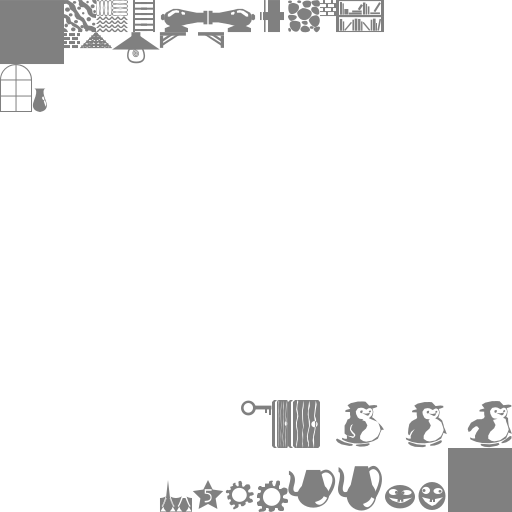
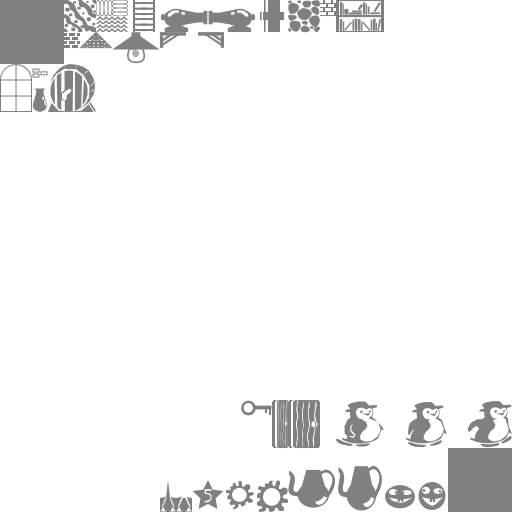
new cellar room

Changed region(s): [[0.0625, 0.125, 0.1875, 0.2188]]

diff --git a/src/rooms.js b/src/rooms.js
@@ -20,5 +20,5 @@ var ROOMS = {
     entryway: [[0,0,0,0,0,0,5,4,5,0,0,0,0,0,0,0,0,0,0,0,0,5,4,5,0,0,0,0,0,0,0,0,0,0,0,0,21,0],[0,0,0,0,0,5,5,4,5,0,0,0,0,0,0,0,0,0,0,0,0,5,4,5,0,0,0,0,0,0,0,0,0,0,0,0,0,0],[0,0,0,0,0,0,5,4,5,0,0,0,0,0,0,0,0,0,0,0,0,5,4,5,0,0,0,0,0,0,0,0,0,0,0,0,21,0],[0,0,0,0,0,5,5,4,5,0,0,0,0,0,0,0,0,30,0,0,0,5,4,5,0,0,0,0,0,0,0,0,0,0,0,0,0,0],[0,0,0,0,0,0,5,4,5,0,0,0,0,0,0,0,0,0,0,0,0,5,4,5,0,0,0,0,0,0,0,0,0,0,0,0,21,0],[0,0,0,0,0,5,5,4,5,0,0,0,0,0,0,0,0,30,0,0,0,5,4,5,0,0,0,0,0,0,0,0,0,0,52,51,0,0],[0,0,0,0,0,0,5,4,5,0,0,0,0,0,0,0,0,0,0,0,0,5,4,5,0,0,0,0,0,0,0,0,0,0,0,0,3,0],[0,0,0,0,0,5,5,4,5,0,0,0,0,0,0,0,0,30,0,0,0,5,4,5,0,0,0,0,0,0,0,0,0,0,0,0,0,0],[0,0,0,0,0,0,5,4,5,0,0,0,0,0,0,0,0,0,0,0,0,5,4,5,0,0,0,0,0,0,0,0,0,0,0,0,21,0],[0,0,0,0,0,5,5,4,5,0,0,0,0,30,0,0,0,30,0,0,0,5,4,5,0,0,0,0,0,0,0,0,0,0,0,0,0,0],[0,0,0,0,0,0,5,4,5,0,0,0,0,0,0,0,0,0,0,0,0,5,4,5,0,0,0,0,0,0,0,0,0,0,0,0,21,0],[0,0,0,0,0,5,5,4,5,0,0,0,0,30,0,0,0,0,0,0,0,5,4,5,0,0,0,0,0,0,0,0,0,0,0,0,0,0],[0,0,5,0,0,0,5,4,5,0,0,0,0,0,0,0,0,0,0,0,0,22,22,22,0,0,0,0,0,0,0,0,0,0,21,0,3,0],[0,0,5,5,5,5,5,4,5,0,0,0,0,30,0,0,0,0,0,0,0,22,22,22,0,0,0,0,0,0,0,0,0,0,0,0,0,0],[0,0,5,5,5,5,5,4,5,0,0,0,0,0,0,0,0,0,0,0,0,22,22,22,0,0,0,0,0,0,0,0,21,0,3,0,3,0],[0,0,5,0,0,0,5,4,5,0,0,0,0,30,0,0,0,0,0,0,0,22,22,22,0,0,0,0,0,0,0,0,0,0,0,0,0,0],[0,0,0,0,0,5,5,4,5,0,0,0,0,0,0,0,0,0,0,0,0,22,22,22,0,0,0,0,0,0,0,0,21,0,3,0,3,0],[0,0,0,0,0,0,5,4,5,0,0,0,0,30,0,0,0,0,0,0,0,22,22,22,0,0,0,0,0,0,0,0,0,0,0,0,0,0],[0,0,0,0,0,5,5,4,5,0,0,0,0,0,0,0,0,0,0,0,9,0,9,0,9,0,9,0,9,0,0,0,21,0,3,0,21,0],[0,0,0,0,0,0,5,4,5,0,0,0,0,30,0,0,0,0,0,0,0,0,0,0,0,0,0,0,0,0,0,0,0,0,0,0,0,0],[0,0,0,0,0,5,5,4,5,0,0,0,0,0,0,0,0,0,0,0,0,22,22,22,0,0,0,0,0,0,0,0,21,0,21,0,21,0],[0,0,0,0,0,0,5,4,5,0,0,0,0,0,0,0,0,0,0,0,0,22,22,22,0,0,0,0,0,0,0,0,0,0,0,0,0,0],[0,0,0,0,0,5,5,4,5,5,5,5,5,5,5,5,5,5,5,5,5,5,4,5,5,5,5,0,0,0,0,0,0,0,0,0,21,0],[0,0,0,0,0,0,5,4,4,4,4,4,4,4,4,4,4,4,4,4,4,4,4,5,5,5,5,0,0,0,0,0,0,0,13,0,0,0],[0,0,0,0,0,5,5,4,5,5,5,5,5,5,5,5,5,5,5,5,5,5,5,5,5,5,5,0,0,0,0,0,0,0,0,0,21,0],[0,0,0,0,0,0,5,4,5,0,0,0,0,26,0,0,0,0,0,0,0,26,0,0,0,5,5,0,0,0,0,0,0,0,0,0,0,0],[0,0,0,0,0,5,5,4,5,0,0,0,0,26,0,0,0,0,0,0,0,26,0,0,0,19,0,0,0,0,0,0,0,0,0,0,3,0],[0,0,0,0,0,0,5,4,5,0,0,0,0,26,0,0,0,0,0,0,0,26,0,0,0,0,0,0,0,0,0,0,0,0,0,0,0,0],[0,0,0,0,0,5,5,4,5,0,0,0,0,26,0,0,0,0,0,0,0,26,0,0,0,19,0,0,0,0,0,0,0,0,0,0,3,0],[0,0,0,0,0,0,5,4,5,0,0,0,0,26,0,0,0,0,0,0,0,26,0,0,0,0,0,0,0,0,0,0,0,0,0,0,0,0],[0,0,0,0,0,5,5,4,5,0,0,0,0,26,0,0,0,0,0,0,0,26,0,0,0,19,0,0,0,0,0,0,0,0,0,0,21,0],[0,0,0,0,0,0,5,4,5,0,0,0,0,26,0,0,0,0,0,0,0,26,0,0,0,0,0,0,0,0,0,0,0,0,51,52,0,0],[0,0,5,5,5,5,5,4,5,0,0,0,0,0,0,0,0,0,0,0,0,0,0,0,0,19,0,0,0,0,0,0,0,0,0,0,21,0],[0,5,5,5,5,5,5,4,5,0,0,0,0,0,0,0,0,0,0,0,0,0,0,0,0,0,0,0,0,0,0,0,0,0,0,0,0,0],[0,5,5,5,5,5,5,4,5,0,0,0,0,0,0,0,0,26,0,0,0,0,0,0,0,19,0,0,0,0,0,0,0,0,0,0,21,0],[0,0,5,5,5,5,5,4,5,0,0,0,0,0,0,0,0,26,0,0,0,0,0,0,0,0,0,0,0,0,0,0,0,0,0,0,0,0],[0,0,0,0,0,0,5,4,5,0,0,0,0,0,0,13,0,26,0,0,0,0,0,0,0,19,0,0,0,0,0,0,0,0,0,0,3,0],[0,0,0,0,0,5,5,4,5,0,0,0,0,0,0,0,0,26,0,0,0,0,0,0,0,0,0,0,0,0,0,0,0,0,0,0,0,0],[0,0,0,0,0,0,5,4,5,17,0,0,0,0,0,0,0,26,0,0,0,0,0,0,0,19,0,19,0,19,0,19,0,0,0,0,3,0],[0,0,0,0,0,5,5,4,5,0,0,0,0,0,0,0,0,26,0,0,0,0,0,0,0,0,0,0,0,0,0,0,0,0,0,0,0,0],[0,0,0,0,0,0,5,4,5,0,0,0,0,0,0,0,0,26,0,0,0,0,0,0,0,0,0,0,0,0,0,19,0,0,0,0,3,0],[0,0,0,0,0,5,5,4,5,0,0,0,0,0,0,0,0,9,0,9,0,9,0,9,0,9,0,9,0,0,0,0,0,41,0,0,0,0],[0,0,0,0,0,0,5,4,5,0,0,0,0,0,0,0,0,0,0,0,0,0,0,0,0,0,0,0,0,0,0,19,0,0,0,0,21,0],[0,0,0,0,0,5,5,4,5,0,0,0,0,0,0,0,0,26,0,0,0,0,0,0,0,0,0,0,0,0,0,0,0,0,0,0,0,0],[0,0,0,0,0,0,5,4,5,0,0,0,0,0,0,0,0,26,0,0,0,0,0,0,0,0,0,0,0,0,0,19,0,0,0,0,3,0],[0,0,0,0,0,5,5,4,5,0,0,0,0,26,0,0,26,26,0,0,0,0,0,0,0,0,0,0,0,0,0,0,0,0,0,0,0,0],[0,0,0,0,0,0,5,4,5,0,0,0,0,26,0,0,0,26,0,0,0,0,0,0,0,0,0,0,0,0,0,19,0,0,0,0,21,0],[0,0,0,0,0,5,5,4,5,0,0,0,0,26,0,0,0,26,0,0,0,0,0,0,0,0,0,0,0,0,0,0,0,0,0,0,0,0],[0,0,0,0,0,0,5,4,5,0,0,0,0,26,0,0,0,26,0,0,0,0,0,0,0,0,0,0,0,0,0,19,0,0,0,0,21,0],[0,0,0,0,0,0,5,4,5,0,0,0,0,26,0,0,0,26,0,0,0,0,0,0,0,0,0,0,0,0,0,0,0,0,0,0,0,0]],
     drawing_room: [[0,0,0,0,0,0,5,4,5,0,0,0,0,26,0,0,0,26,0,0,0,0,0,0,0,0,0,0,0,0,0,19,0,0,0,0,21,0],[0,0,0,0,0,5,5,4,5,0,0,0,0,26,0,0,0,26,0,0,0,0,0,0,0,0,0,0,0,0,0,0,0,0,0,0,0,0],[0,0,0,0,0,0,5,4,5,0,0,0,0,26,0,0,0,26,0,0,0,0,0,0,0,0,0,0,0,0,0,19,0,0,0,0,21,0],[0,0,0,0,0,5,5,4,5,0,0,0,23,26,0,0,0,26,0,0,0,0,0,0,0,0,0,0,0,0,0,0,0,0,0,0,0,0],[0,0,0,0,0,0,5,4,5,0,0,0,0,26,0,0,0,26,0,0,0,9,0,9,0,9,0,9,0,0,0,19,0,0,0,0,21,0],[0,0,0,0,0,5,5,4,5,0,0,0,0,26,0,0,0,26,0,0,0,0,0,0,0,0,0,0,0,0,0,0,0,0,0,0,0,0],[0,0,0,0,0,0,5,4,5,0,0,0,0,26,0,0,0,26,0,0,0,8,0,0,0,0,0,0,0,0,0,19,0,0,0,0,21,0],[0,0,0,0,0,5,5,4,5,0,0,0,0,26,0,0,0,26,0,0,0,8,0,0,0,0,0,0,0,0,0,0,0,0,0,0,0,0],[0,0,0,0,0,0,5,4,5,0,0,0,0,9,0,9,0,9,0,0,0,8,0,0,0,0,0,0,0,19,0,19,0,0,0,0,21,0],[0,0,0,0,5,5,5,4,5,0,0,0,0,0,0,0,0,0,0,0,0,8,0,0,0,0,0,0,0,0,0,0,0,0,0,0,0,0],[0,0,0,5,5,5,5,4,5,0,0,0,0,26,0,0,0,26,0,0,0,8,0,0,0,0,0,19,0,19,0,0,0,0,0,0,21,0],[0,0,0,0,5,5,5,4,5,0,0,0,0,26,0,0,0,26,0,0,0,8,0,0,0,0,0,0,0,0,0,0,0,0,0,0,0,0],[0,0,0,5,5,5,5,4,5,0,0,13,0,26,0,0,0,26,0,0,0,0,0,0,0,19,0,19,0,0,0,0,0,0,0,0,21,0],[0,0,0,0,5,5,5,4,5,0,0,0,0,26,0,0,0,0,0,0,0,0,0,0,0,0,0,0,0,0,0,0,0,0,0,0,0,0],[0,0,0,0,0,0,5,4,5,0,0,0,0,26,0,0,0,0,0,0,0,0,0,19,0,19,0,0,0,0,0,0,0,0,0,0,21,0],[0,0,0,0,0,5,5,4,5,0,0,0,0,26,0,0,0,0,0,0,0,0,0,0,0,0,0,0,0,0,0,0,0,0,0,0,0,0],[0,0,0,0,0,0,5,4,5,0,0,0,0,26,0,0,0,0,0,0,0,19,0,19,0,0,0,0,0,0,0,0,0,0,0,0,21,0],[0,0,0,0,0,5,5,4,5,0,0,0,0,26,0,0,0,0,0,0,0,0,0,0,0,0,0,0,0,0,0,0,0,0,0,0,0,0],[0,0,0,0,0,0,5,4,5,0,0,0,0,26,0,0,0,0,0,19,0,19,0,0,0,0,0,0,0,0,0,0,0,0,21,0,21,0],[0,0,0,0,0,5,5,4,5,0,0,0,0,47,0,0,0,0,0,0,0,0,0,0,0,0,0,0,0,0,0,0,0,0,0,0,0,0],[0,0,0,0,0,0,5,4,5,0,0,0,0,0,0,0,0,19,0,19,0,0,0,0,0,0,0,0,0,0,0,0,21,0,21,0,21,0],[0,0,0,0,0,5,5,4,5,0,0,0,0,0,0,0,0,0,0,0,0,0,0,0,0,0,0,0,0,0,0,0,0,0,0,0,0,0],[0,0,0,0,0,0,5,4,5,0,0,0,0,0,0,19,0,19,0,0,0,0,0,0,0,0,0,0,0,0,21,0,21,0,21,0,21,0],[0,0,0,0,0,0,5,4,5,0,0,0,0,0,0,0,0,0,0,0,0,0,0,0,0,0,0,0,0,0,0,0,0,0,0,0,0,0],[0,0,0,0,0,15,5,4,5,0,0,0,0,19,0,19,0,0,0,0,0,0,0,0,0,0,0,0,21,0,21,0,21,0,0,0,21,0],[0,0,0,0,15,5,5,4,5,0,0,0,0,0,0,0,0,0,0,0,0,0,0,0,0,0,0,0,0,0,0,0,0,0,0,0,0,0],[0,0,0,15,5,4,4,4,5,0,0,0,0,19,0,0,0,0,0,0,0,0,0,0,0,0,21,0,21,0,21,0,0,0,0,0,21,0],[0,0,15,5,4,5,5,5,5,0,0,0,0,0,0,0,0,0,0,0,0,0,0,0,0,0,0,0,0,0,0,0,0,0,0,0,0,0],[0,15,5,4,5,0,0,0,0,0,0,0,0,28,0,0,0,0,0,0,0,0,0,0,21,0,21,0,21,0,0,0,0,0,0,0,21,0],[15,5,4,5,0,0,0,0,0,0,0,0,0,0,0,0,0,0,0,0,0,0,0,0,0,0,0,0,0,0,0,0,0,0,0,0,0,0],[5,4,5,0,0,0,0,0,0,0,0,0,0,28,0,0,0,0,0,0,0,0,21,0,21,0,21,0,0,0,0,0,0,0,9,0,9,0],[4,5,5,0,0,0,0,0,0,48,0,0,0,0,0,0,0,0,0,0,0,0,0,0,0,0,0,0,0,0,0,0,0,0,0,0,0,0],[4,5,0,0,0,0,0,0,0,0,0,0,0,28,0,0,0,0,0,0,21,0,21,0,21,0,0,0,0,53,0,0,0,0,0,0,0,0],[4,5,0,0,0,0,0,0,0,8,0,0,0,0,0,0,0,0,0,0,0,0,0,0,0,0,0,0,0,0,0,0,0,0,0,0,0,0],[4,5,0,0,0,0,0,0,0,8,0,0,0,28,0,0,0,0,21,0,21,0,21,0,0,0,0,0,0,0,0,0,0,0,0,0,0,0],[4,5,0,0,0,0,0,0,0,8,0,0,0,0,0,0,0,0,0,0,0,0,0,0,0,14,0,0,0,0,0,0,0,0,0,0,0,0],[4,5,0,0,0,0,0,0,0,8,0,0,0,28,0,0,0,0,21,0,21,0,0,0,0,0,0,0,0,0,0,0,0,0,0,0,21,0],[4,5,0,0,0,0,0,0,0,8,0,0,0,0,0,0,0,0,0,0,0,0,0,0,0,0,0,0,0,0,0,0,0,0,0,0,0,0],[4,5,0,0,0,0,0,0,0,9,0,9,0,9,0,0,0,0,21,0,21,0,0,0,0,0,0,0,0,0,0,0,0,0,0,0,21,0],[4,5,0,0,0,0,0,0,0,0,0,0,0,0,0,0,0,0,0,0,0,0,49,0,0,0,0,48,0,0,0,48,0,0,0,0,0,0],[4,5,0,0,0,0,0,0,0,8,0,0,0,0,0,0,0,0,21,0,21,0,0,0,0,0,0,0,0,0,0,0,0,0,0,0,21,0],[4,5,0,0,0,0,0,0,0,8,0,0,0,0,0,0,0,0,0,0,0,0,4,4,4,4,4,4,4,4,4,4,4,0,0,0,0,0],[4,5,0,0,0,0,0,0,0,8,0,0,0,0,0,0,0,0,21,0,21,0,4,4,4,4,4,4,4,4,4,4,4,43,0,0,21,0],[4,5,0,0,0,0,0,13,0,8,0,0,0,0,0,0,0,0,0,0,0,0,4,4,4,4,4,4,4,4,4,4,4,0,0,0,0,0],[4,5,0,0,0,0,0,0,0,8,0,0,0,0,0,0,0,0,21,0,21,0,4,4,4,4,4,4,4,4,4,4,4,0,0,0,21,0],[4,5,0,0,0,0,0,0,24,8,0,0,0,0,0,0,0,0,0,0,0,0,0,0,0,0,0,0,0,0,0,0,0,0,0,0,0,0],[4,5,0,0,0,0,0,0,0,8,0,0,0,0,0,0,0,0,21,0,21,0,0,0,0,0,0,0,0,0,0,0,0,0,0,0,21,0],[4,5,0,0,0,0,0,0,0,8,0,0,0,0,0,0,0,0,0,0,0,0,0,0,0,0,0,0,0,0,0,0,0,0,0,0,0,0],[4,5,0,0,0,0,0,0,0,8,0,0,0,0,0,0,0,0,21,0,21,0,0,0,0,0,0,0,0,0,0,0,0,0,0,0,21,0],[4,5,0,0,0,0,0,0,0,8,0,0,0,0,0,0,0,0,0,0,0,0,0,0,0,0,0,0,0,0,0,0,0,0,0,0,0,0]],
     kitchen:  [[4,5,0,0,0,0,0,0,0,30,0,0,0,0,0,0,0,0,21,0,3,0,0,0,0,0,0,0,0,0,0,0,0,0,0,0,3,0],[4,5,0,0,0,0,0,0,0,0,0,0,0,0,0,0,0,0,0,0,0,0,0,0,0,0,0,0,0,0,0,0,0,0,0,0,0,0],[4,5,0,0,0,0,0,0,0,30,0,0,0,0,0,0,0,0,21,0,3,0,0,0,0,53,0,0,0,0,0,0,0,0,0,0,21,0],[4,5,0,0,0,0,0,0,0,0,0,0,0,0,0,0,0,0,0,0,0,0,0,0,0,0,0,0,0,0,0,0,0,0,0,0,0,0],[4,5,0,0,0,0,0,0,0,9,0,9,0,9,0,0,0,0,21,0,3,0,0,0,0,0,0,0,0,0,0,0,0,0,0,0,21,0],[4,5,17,0,0,0,0,0,0,0,0,0,0,0,0,0,0,0,0,0,0,0,0,0,0,0,0,0,0,0,0,0,0,0,0,0,0,0],[4,5,0,0,0,0,0,0,0,0,0,0,0,0,0,0,0,0,21,0,3,0,0,0,0,0,0,0,0,0,0,0,0,0,0,0,21,0],[4,5,0,0,0,0,0,0,0,30,0,0,0,0,0,0,0,0,0,0,0,0,0,0,0,0,0,0,0,0,0,0,0,0,0,0,0,0],[4,5,0,0,0,0,0,0,0,0,0,0,0,0,0,0,0,0,21,0,3,0,0,0,0,0,0,0,0,0,0,0,0,0,0,0,21,0],[4,5,0,0,0,0,0,0,0,30,0,0,0,0,0,0,0,0,0,0,0,0,0,0,0,53,0,0,0,0,0,0,0,0,0,0,0,0],[4,5,0,0,0,0,0,0,0,0,0,0,0,0,0,0,0,0,21,0,3,0,0,0,0,0,0,0,0,0,0,0,0,0,0,0,21,0],[4,5,0,0,0,0,0,0,0,27,0,0,0,0,0,0,0,0,0,0,0,0,0,0,0,0,0,0,0,0,0,0,0,0,0,0,0,0],[4,5,0,0,0,0,0,0,0,27,0,0,0,0,0,0,0,0,21,0,3,0,0,0,0,0,0,0,0,0,0,0,0,0,0,24,21,0],[4,5,0,0,0,0,0,0,0,30,0,0,0,0,0,0,0,0,0,0,0,0,0,0,0,0,0,0,0,0,0,0,0,0,0,50,0,0],[4,5,0,0,0,0,0,0,0,0,0,0,0,0,0,0,0,0,0,0,21,0,3,0,0,0,0,0,0,0,0,0,0,0,0,24,21,0],[4,5,0,0,0,0,0,0,0,30,0,0,0,0,0,0,0,0,0,0,0,0,0,0,0,0,0,0,0,0,0,0,0,0,0,0,0,0],[4,5,0,0,0,0,0,0,0,0,0,0,0,0,0,0,0,0,0,0,0,0,3,0,21,0,0,0,0,0,0,0,0,0,0,0,3,0],[4,5,0,0,0,0,0,0,0,30,0,0,0,0,0,0,0,0,0,0,0,0,0,0,0,0,0,0,0,0,0,0,0,0,0,0,0,0],[4,5,0,0,0,0,0,0,0,0,0,0,0,0,0,0,0,0,0,0,0,0,0,0,0,30,0,0,0,0,0,0,0,0,0,0,3,0],[4,5,0,0,0,0,0,0,0,0,0,0,0,30,0,0,0,0,0,0,0,0,0,0,0,0,0,0,0,0,0,0,0,0,0,0,0,0],[4,5,0,0,0,0,0,0,0,0,0,0,0,0,0,0,0,0,0,0,0,0,0,0,0,9,0,9,0,9,0,9,0,9,0,0,21,0],[4,5,0,0,0,0,0,0,0,0,0,0,0,30,0,0,0,0,0,0,0,0,0,0,0,0,0,0,0,0,0,0,0,0,0,0,0,0],[16,4,5,0,0,0,0,0,0,0,0,0,0,0,0,0,0,0,0,0,0,0,0,0,0,30,0,0,0,0,0,0,0,0,0,0,21,0],[0,16,4,5,0,0,0,0,0,0,0,0,0,30,0,0,0,0,0,0,0,0,0,0,0,0,0,0,0,0,0,0,0,0,0,0,0,0],[0,0,16,4,5,0,0,0,49,0,0,0,0,0,14,0,0,0,0,0,0,0,0,0,0,21,0,0,0,0,0,0,0,0,0,0,21,0],[0,0,0,16,4,5,0,0,0,0,0,0,0,30,0,0,0,0,0,0,0,0,0,0,0,0,0,0,0,0,0,0,0,0,0,0,0,0],[0,0,0,0,5,4,5,0,0,0,0,0,0,0,0,0,0,0,0,0,0,0,0,0,0,21,0,21,0,0,0,0,0,0,13,0,3,0],[0,0,0,5,5,4,5,0,0,0,0,0,0,30,0,0,0,0,0,0,0,0,0,0,0,0,0,0,0,0,0,0,0,0,0,0,0,0],[0,0,0,0,5,4,5,0,0,0,0,0,0,0,0,0,0,0,0,0,0,0,0,0,0,0,0,21,0,21,0,21,0,21,0,21,21,0],[0,0,5,5,5,4,5,0,0,0,0,0,0,47,0,0,0,0,0,0,0,0,0,0,0,0,0,0,0,0,0,0,0,0,0,0,0,0],[0,5,5,5,5,4,5,0,0,0,0,0,0,0,0,0,0,0,0,0,0,0,0,0,0,0,0,0,47,0,0,0,47,0,0,0,21,0],[0,0,5,5,5,4,5,0,0,0,0,0,0,48,0,0,0,0,0,0,0,0,0,0,0,0,0,0,0,0,0,0,0,0,0,0,0,0],[0,5,5,5,5,4,5,0,0,0,0,0,0,0,0,0,0,0,0,0,0,0,0,0,0,0,0,0,0,0,0,0,0,0,0,0,21,0],[0,0,5,5,5,4,5,0,0,0,0,0,0,23,0,0,0,0,0,0,0,0,0,0,0,0,0,0,0,0,0,0,0,0,0,0,0,0],[0,0,0,0,5,4,5,0,0,0,0,0,0,23,0,0,0,0,0,0,0,0,0,0,0,0,0,0,0,0,0,0,0,0,0,0,21,0],[0,0,0,5,5,4,5,20,0,0,0,0,0,2,0,20,0,20,0,2,0,2,0,20,0,0,0,0,0,0,0,0,0,0,0,0,0,0],[0,0,0,0,5,4,5,0,0,0,0,0,0,0,0,0,0,0,0,0,0,0,0,0,0,0,0,0,0,0,0,0,0,0,0,0,21,0],[0,0,0,5,5,4,5,2,0,0,0,0,0,0,0,0,0,0,0,0,0,49,0,29,0,0,0,0,0,0,0,0,0,0,0,0,0,0],[0,0,0,0,5,4,5,0,0,0,0,0,0,0,0,0,0,0,0,0,0,0,0,0,0,0,0,0,0,0,0,0,0,0,0,0,21,0],[0,0,5,5,5,4,5,2,0,0,0,0,0,0,0,0,0,0,0,0,0,0,0,29,0,0,0,0,0,0,0,0,0,0,0,0,0,0],[0,5,5,5,5,4,5,0,0,0,0,0,0,0,0,0,0,0,0,0,0,0,0,0,0,0,0,0,0,0,0,0,0,0,0,0,21,0],[0,0,5,5,5,4,5,20,0,0,0,0,0,0,0,0,46,0,48,0,0,0,0,29,0,0,0,0,0,0,0,0,0,0,0,0,0,0],[0,5,5,5,5,4,5,0,0,0,0,0,0,0,0,0,0,0,0,0,0,0,0,0,0,0,0,0,0,0,0,0,0,0,0,0,21,0],[0,0,5,5,5,4,5,20,0,0,0,0,0,0,0,0,0,0,23,0,0,0,0,9,0,9,0,9,0,9,0,9,0,9,0,0,0,0],[0,0,0,0,5,4,5,0,0,0,0,0,0,0,0,0,0,0,23,0,0,0,0,0,0,0,0,0,0,0,0,0,0,0,0,0,21,0],[0,0,0,5,5,4,5,2,0,0,0,0,0,0,0,0,0,0,23,0,0,0,0,29,0,0,0,0,0,0,0,0,0,0,0,0,0,0],[0,0,0,0,5,4,5,0,0,0,0,0,0,0,0,0,0,0,23,0,0,0,0,0,0,0,0,0,0,0,0,0,0,0,0,0,21,0],[0,0,0,0,16,4,5,23,23,0,0,0,44,29,0,0,0,0,23,0,0,0,0,29,0,0,0,0,0,0,0,0,0,0,0,0,0,0],[0,0,0,0,0,16,5,5,23,0,0,0,0,0,0,0,0,0,23,0,0,0,0,0,0,0,0,0,0,0,0,0,0,0,0,0,5,5],[0,0,0,0,0,0,16,5,5,5,5,5,5,5,5,5,5,5,5,5,5,5,5,5,5,5,5,5,5,5,5,5,5,5,5,5,5,5]],
-    cellar: [[21,0,21,0,21,0,21,0,21,0,21,0,21,0,21,0,21,0,21,0,21,0,21,0,21,0,21,0,21,0,21,0,21,0,21,0,21,0],[0,0,0,0,0,0,0,0,0,0,0,0,0,0,0,0,0,0,0,0,0,0,0,0,0,0,0,0,0,0,0,0,0,0,0,0,0,0],[21,0,21,0,49,0,0,22,0,0,0,0,21,0,0,0,0,0,0,0,0,0,0,0,0,51,51,52,51,52,22,0,0,0,0,0,21,0],[0,0,0,0,0,0,0,22,0,0,0,0,0,0,0,0,0,0,0,22,0,0,0,0,0,0,0,0,0,0,22,0,0,0,0,0,0,0],[21,0,0,0,0,0,0,22,0,0,0,0,3,0,0,0,0,0,0,22,0,0,0,0,0,0,0,0,0,0,22,0,0,0,0,0,21,0],[0,0,0,0,0,0,0,22,0,0,0,0,0,0,0,0,0,0,0,22,0,0,0,0,0,0,0,0,0,0,22,0,0,0,0,0,0,0],[21,0,0,0,0,0,0,50,0,0,13,0,3,0,0,0,0,0,0,22,0,0,0,0,0,0,0,0,0,0,22,0,0,0,0,0,21,0],[0,0,0,0,0,0,0,22,0,0,0,0,0,0,0,0,0,0,0,50,0,0,0,0,22,0,0,0,0,0,22,0,0,0,0,0,0,0],[21,0,0,0,0,0,0,22,0,0,0,0,3,0,0,0,0,0,0,22,0,0,0,0,22,0,0,0,0,0,22,0,0,0,0,0,21,0],[0,0,0,0,0,0,0,22,0,0,0,0,0,0,0,0,0,0,0,22,0,0,0,0,22,0,0,0,0,0,47,0,0,0,0,0,0,0],[21,0,0,0,0,0,0,22,0,0,0,0,3,0,0,0,0,0,0,22,0,0,0,0,22,0,0,0,0,0,0,0,0,0,0,0,21,0],[0,0,0,0,0,0,0,47,0,0,0,0,0,0,0,0,0,0,0,9,0,9,0,0,22,0,0,0,0,0,0,0,0,0,0,0,0,0],[21,0,0,0,0,0,0,0,0,0,0,0,21,0,0,0,0,0,0,0,0,0,0,0,22,0,0,0,0,0,0,0,0,0,0,0,21,0],[0,0,0,0,0,0,0,0,0,0,0,0,0,0,0,0,0,0,0,0,0,0,0,0,22,0,0,0,0,0,0,0,0,0,0,0,0,0],[21,0,0,0,0,0,0,53,0,0,0,0,3,0,0,0,0,0,0,0,0,0,0,0,22,0,0,0,0,0,0,22,0,0,0,0,21,0],[0,0,0,0,0,0,0,0,0,0,0,0,0,0,0,0,0,0,0,0,0,0,0,0,50,0,0,0,0,0,0,22,0,0,0,0,0,0],[21,0,0,0,0,0,0,0,0,0,0,0,3,0,0,0,0,0,0,0,0,0,0,0,22,0,0,0,0,0,0,22,0,0,0,0,21,0],[0,0,0,0,0,0,0,0,0,0,0,0,0,0,0,0,0,0,0,0,0,0,0,0,22,0,0,0,0,0,0,47,0,0,0,0,0,0],[21,0,0,0,0,0,0,0,48,0,0,0,21,0,0,0,0,0,0,9,0,9,0,0,22,0,0,0,0,0,0,0,0,0,0,0,21,0],[0,0,0,0,0,0,0,0,0,0,0,0,0,0,0,0,0,0,0,0,0,0,0,0,22,0,0,0,0,0,0,0,0,0,0,0,0,0],[21,0,0,0,0,0,0,0,22,0,0,0,21,0,0,0,0,0,0,22,0,0,0,0,22,0,0,0,0,0,0,0,0,0,0,0,21,0],[0,0,0,0,0,0,0,0,22,0,0,0,0,0,0,0,0,0,0,22,0,0,0,0,22,0,0,0,0,0,0,0,0,0,0,0,0,0],[21,0,0,53,0,0,0,0,22,0,0,0,21,0,0,0,0,0,0,22,0,0,13,0,22,0,0,0,0,0,53,0,0,0,13,0,21,0],[0,0,0,0,0,0,0,0,22,0,0,0,0,0,0,0,0,0,0,22,0,0,0,0,22,0,0,0,0,0,0,0,0,0,0,0,0,0],[21,0,0,0,0,0,0,0,22,0,0,0,50,22,0,0,0,0,0,22,0,0,0,0,22,0,0,0,0,0,0,0,0,0,0,0,21,0],[0,0,0,0,0,0,0,0,22,0,0,0,9,0,9,0,9,0,9,0,9,0,0,0,22,0,0,0,0,0,0,0,0,0,0,0,0,0],[21,0,0,0,0,0,0,0,22,0,0,0,0,0,0,0,0,0,0,0,0,0,0,0,22,0,0,0,0,0,0,0,48,0,0,0,21,0],[0,0,0,0,0,0,0,0,22,0,0,0,0,0,0,0,0,0,0,0,0,0,0,0,22,0,0,0,0,0,0,0,0,0,0,0,0,0],[21,0,0,0,0,0,0,0,22,0,0,0,0,0,0,0,0,0,0,0,0,0,0,0,22,0,0,0,0,0,0,0,22,0,0,0,21,0],[0,0,0,0,0,0,0,0,22,0,0,0,22,22,0,0,0,0,0,48,0,0,0,0,22,0,0,0,0,0,0,0,22,0,0,0,0,0],[21,0,0,0,0,0,0,0,22,0,0,0,3,0,0,0,0,0,0,0,0,0,0,0,22,0,0,0,0,0,0,0,22,0,0,0,21,0],[0,0,0,0,0,0,0,0,22,0,0,0,0,0,0,0,0,0,0,22,0,0,0,0,22,0,0,0,0,0,0,0,22,0,0,0,0,0],[9,0,9,0,9,0,9,0,9,0,0,0,3,0,0,0,0,0,0,22,0,0,0,0,22,0,0,0,0,0,0,0,22,0,0,0,21,0],[0,0,0,0,0,0,0,0,0,0,0,0,0,0,0,0,0,0,0,22,0,0,0,0,50,0,0,0,0,0,0,0,22,0,0,0,0,0],[0,0,0,0,0,0,22,0,0,0,0,0,21,0,0,0,0,0,0,22,0,0,0,0,22,0,0,0,0,0,0,0,22,0,0,0,21,0],[0,0,0,0,0,0,22,0,0,0,0,0,0,0,0,0,0,0,0,22,0,0,0,0,9,0,9,0,9,0,9,0,9,0,0,0,0,0],[21,0,0,0,0,0,22,0,0,0,0,0,3,0,0,0,0,0,0,22,0,0,0,0,0,0,0,0,0,0,0,0,0,0,0,0,21,0],[0,0,0,0,0,0,50,0,0,0,0,0,0,0,0,0,0,0,0,22,0,0,0,0,0,0,0,0,0,0,22,0,0,0,0,0,0,0],[21,0,0,0,0,0,22,0,0,0,0,0,3,0,0,0,0,0,0,22,0,0,0,0,0,0,0,0,0,0,50,0,0,0,0,0,21,0],[0,0,0,0,0,0,22,0,0,0,0,0,0,0,0,0,0,0,0,22,0,0,0,0,0,0,0,0,0,0,22,0,0,0,0,0,0,0],[21,0,0,0,0,0,22,0,0,0,0,0,21,0,0,0,0,0,0,9,0,9,0,0,0,0,0,0,0,0,22,0,0,0,0,0,21,0],[0,0,0,0,0,0,0,0,0,0,0,0,0,0,0,0,0,0,0,0,0,0,0,0,0,51,52,51,52,52,22,0,0,0,0,0,0,0],[21,0,0,0,0,0,0,0,0,0,0,0,3,0,0,0,0,0,0,22,0,0,0,0,0,0,0,0,0,0,22,0,0,0,0,0,21,0],[0,0,0,0,0,51,52,51,52,52,51,52,0,0,0,0,0,0,0,22,0,0,0,0,0,0,0,0,0,0,22,0,0,0,0,0,0,0],[21,0,0,0,0,0,0,0,0,0,0,0,3,0,0,0,0,0,0,22,0,0,0,0,0,0,0,0,0,0,22,0,0,0,0,0,21,0],[0,0,0,0,0,0,0,0,0,0,0,0,0,0,0,0,0,0,0,22,0,0,0,0,0,0,0,0,0,0,22,0,0,0,0,0,0,0],[21,0,21,0,0,0,0,0,0,0,0,0,21,0,0,0,0,0,0,22,0,0,0,0,0,0,0,0,0,0,22,0,0,0,0,0,21,0],[0,0,0,0,0,0,0,0,0,0,0,0,0,0,0,0,0,0,0,0,0,0,0,0,0,0,0,0,0,0,0,0,0,0,0,0,0,0],[21,0,21,0,21,0,21,0,21,0,21,0,21,0,21,0,21,0,21,0,21,0,21,0,21,0,21,0,21,0,21,0,21,0,21,0,21,0],[0,0,0,0,0,0,0,0,0,0,0,0,0,0,0,0,0,0,0,0,0,0,0,0,0,0,0,0,0,0,0,0,0,0,0,0,0,0]],
+    cellar: [[21,0,4,4,4,4,4,4,4,4,4,4,4,4,4,4,4,4,4,4,4,4,4,4,4,4,4,4,4,4,4,4,4,4,4,4,4,4],[0,0,4,4,4,4,4,4,4,4,4,4,4,4,4,4,4,4,4,4,4,4,4,4,4,4,4,4,4,4,4,4,4,4,4,4,4,4],[21,0,0,0,0,0,0,28,0,0,0,0,0,0,0,28,0,0,0,4,4,0,0,0,0,40,28,0,54,0,0,0,0,0,49,0,4,4],[0,0,0,0,54,0,0,0,0,0,0,54,0,0,0,0,0,0,0,4,4,0,0,0,0,0,0,0,0,54,0,0,0,0,0,0,4,4],[21,0,0,0,0,54,0,47,0,0,0,54,54,0,0,47,0,0,0,4,4,0,0,0,0,0,28,0,0,0,54,0,0,0,0,0,4,4],[0,0,0,0,54,0,0,0,0,0,0,0,54,0,0,0,0,0,0,4,4,0,0,0,0,0,0,0,0,54,0,0,4,56,0,0,4,4],[21,0,0,0,0,0,0,0,0,0,0,0,0,0,0,0,0,0,0,4,4,0,0,0,0,0,28,0,0,0,0,0,4,0,0,0,4,4],[0,0,0,0,0,0,0,0,0,0,0,0,0,0,0,0,0,0,0,4,4,0,0,0,0,0,0,0,0,0,0,0,4,0,0,0,4,4],[21,0,0,0,0,0,0,54,54,0,0,48,0,0,0,0,56,0,0,4,4,0,54,0,0,0,50,0,0,0,0,0,4,56,0,0,4,4],[0,0,0,0,0,0,0,0,0,0,0,0,0,0,0,0,0,0,0,4,4,0,54,54,0,0,0,0,0,0,0,0,0,0,0,0,4,4],[21,0,0,0,0,48,0,0,0,0,0,28,0,0,0,0,0,0,0,4,4,0,54,0,0,0,0,0,0,0,14,0,0,0,0,0,4,4],[0,0,0,0,0,0,0,0,0,0,0,0,0,0,0,0,56,0,0,4,4,0,0,0,0,0,0,0,0,0,0,0,0,56,0,0,4,4],[21,0,0,49,0,28,0,0,0,50,21,0,0,0,0,0,0,0,0,4,4,0,0,0,0,0,0,0,0,0,0,0,0,0,0,0,4,4],[0,0,0,0,0,0,0,0,0,24,0,0,0,0,0,0,0,0,0,4,4,0,0,0,0,0,28,0,0,0,0,0,0,0,0,0,4,4],[21,0,21,0,21,0,3,0,21,0,24,0,0,0,0,0,56,0,0,4,4,0,0,0,0,0,0,0,0,0,0,0,4,0,13,0,4,4],[0,0,0,0,0,0,0,0,0,0,0,0,0,0,0,0,0,0,0,4,4,0,0,0,0,0,28,0,0,0,0,0,4,0,0,0,4,4],[3,0,3,0,3,0,24,24,0,0,0,0,0,0,0,0,0,0,0,4,4,0,0,0,0,0,0,0,0,0,0,0,4,0,0,0,4,4],[0,0,0,0,0,0,24,0,0,0,0,0,0,0,0,0,54,0,0,4,4,0,0,0,0,0,28,0,0,0,0,0,4,56,0,0,4,4],[21,0,21,0,21,0,0,0,0,0,0,0,0,0,0,0,0,54,0,4,4,0,0,0,0,0,0,0,0,0,0,0,4,0,0,0,4,4],[0,0,0,0,0,0,0,0,0,0,0,4,4,0,0,0,54,0,0,4,4,0,0,0,0,0,0,0,0,54,0,0,0,0,0,0,4,4],[21,0,0,0,0,0,0,0,0,0,0,4,4,0,0,0,0,0,0,4,4,0,0,0,0,0,0,0,0,0,0,0,0,56,0,0,4,4],[0,0,0,0,0,0,0,0,0,0,4,4,45,0,0,0,0,0,0,4,4,0,0,0,28,0,0,0,0,0,0,0,0,0,0,0,4,4],[21,0,0,0,0,0,0,0,0,0,4,4,0,0,0,0,0,0,0,4,4,0,0,0,0,0,0,0,0,0,0,0,0,0,0,0,4,4],[0,0,0,0,0,0,0,0,0,0,4,4,0,0,0,0,0,0,0,4,4,0,0,0,28,0,0,0,0,0,0,0,0,0,0,0,4,4],[21,0,0,0,0,0,0,0,0,4,4,0,0,0,0,22,0,0,0,4,4,0,0,0,0,0,0,0,0,0,0,0,0,54,0,0,4,4],[0,0,0,0,0,0,0,0,0,4,4,0,0,0,0,22,0,0,0,4,4,0,0,0,28,0,0,0,0,0,0,0,4,0,54,0,4,4],[21,0,0,0,0,0,0,0,0,4,4,0,0,55,0,22,0,55,0,4,4,0,0,0,0,0,0,0,54,0,54,0,4,0,0,0,4,4],[0,0,0,0,0,0,0,0,4,4,0,0,0,0,0,22,0,0,0,4,4,0,0,0,28,0,0,0,0,54,0,0,4,0,0,0,4,4],[21,0,0,0,0,0,0,0,4,4,0,0,0,0,0,22,0,55,0,4,4,0,0,0,0,0,0,0,0,0,0,0,4,0,0,0,4,4],[0,0,0,0,0,0,0,0,4,4,0,0,0,55,0,22,0,55,0,4,4,0,0,0,28,0,0,0,0,0,0,0,4,56,0,0,4,4],[9,0,9,0,9,0,0,0,4,4,0,0,0,0,0,22,0,0,0,4,4,0,0,0,0,0,0,0,0,0,0,0,4,0,0,0,4,4],[0,0,0,0,0,0,0,0,4,4,0,0,0,55,0,22,0,55,0,4,4,0,0,0,47,0,0,0,0,0,0,0,4,0,0,0,4,4],[0,0,0,0,0,0,46,0,4,4,0,0,0,55,0,22,0,0,0,4,4,0,0,0,0,0,0,0,0,0,0,0,4,56,0,0,4,4],[0,0,0,0,0,0,0,0,4,4,0,0,0,0,0,22,0,0,0,4,4,0,0,0,48,0,0,0,48,0,0,0,4,0,0,0,4,4],[0,0,0,0,0,0,0,0,4,4,0,0,0,0,54,0,0,54,0,4,4,0,0,0,0,0,0,0,0,0,0,0,4,0,0,0,4,4],[0,0,0,0,0,0,0,0,4,4,0,0,0,54,0,0,0,0,0,4,4,4,4,4,4,4,4,4,4,4,4,4,4,56,0,0,4,4],[21,0,0,0,0,0,0,0,4,4,0,0,0,0,54,0,0,0,0,4,4,4,4,4,4,4,4,4,4,4,4,4,4,0,0,0,4,4],[0,0,0,0,0,0,0,0,4,4,0,0,0,0,0,0,0,0,0,22,22,0,54,0,0,0,0,0,0,0,0,0,0,0,0,0,4,4],[21,0,0,0,0,0,0,0,4,4,0,0,0,0,0,0,0,0,0,22,22,0,0,0,0,0,0,0,0,0,54,0,0,0,0,0,4,4],[0,0,0,0,0,0,0,0,4,4,17,0,0,0,0,0,0,0,0,22,22,0,0,0,0,0,0,0,0,0,0,0,0,0,0,0,4,4],[21,0,0,0,0,0,0,0,4,4,0,0,0,0,0,0,0,0,0,9,0,9,0,9,0,9,0,9,0,9,0,9,0,9,0,0,4,4],[0,0,0,0,0,0,0,0,4,4,0,0,0,0,0,0,0,0,0,0,0,0,0,0,0,0,0,0,0,0,0,0,0,0,0,0,4,4],[21,0,0,0,0,0,0,0,4,4,0,0,0,0,0,0,0,0,0,22,22,0,0,0,0,0,0,0,0,0,0,0,0,0,0,0,4,4],[0,0,0,0,0,0,0,0,4,4,4,4,4,4,4,4,0,0,0,22,22,0,0,54,0,0,54,0,0,0,0,0,0,0,0,0,4,4],[21,0,0,0,0,0,0,0,4,4,19,0,19,0,19,0,39,0,0,22,22,0,0,0,0,0,0,54,0,0,54,0,0,56,0,0,4,4],[0,0,0,0,0,0,0,0,4,4,0,0,0,0,0,0,0,0,0,4,4,0,0,0,0,54,0,0,0,0,0,0,0,0,0,0,4,4],[21,0,0,0,0,0,0,0,4,4,4,4,4,4,4,4,0,0,0,4,4,0,0,0,0,0,0,0,0,0,0,0,0,0,0,0,4,4],[0,0,0,0,0,0,0,0,4,4,0,0,0,0,0,0,0,0,0,4,4,0,0,0,0,0,0,0,0,0,0,0,0,0,0,0,4,4],[21,0,4,4,4,4,4,4,4,4,0,0,0,0,0,0,0,0,0,4,4,4,4,4,4,4,4,4,4,4,4,4,4,4,4,4,4,4],[0,0,4,4,4,4,4,4,4,4,0,0,0,0,0,0,0,0,0,4,4,4,4,4,4,4,4,4,4,4,4,4,4,4,4,4,4,4]],
 };

diff --git a/src/textures.js b/src/textures.js
@@ -77,7 +77,10 @@ var BLOCKS = [
     ["green", "spike1"],
     ["white", "book1"],
     ["white", "book2"],
-    ["white", "window"]
+    ["white", "window"],
+    ["white", "wall_decor"],
+    ["white", "vase"],
+    ["white", "barrel"],
 ];
 
 EXTRA_INFO = {
@@ -119,7 +122,16 @@ EXTRA_INFO = {
     },
     "window": {
         decor: true
-    }
+    },
+    "wall_decor": {
+        decor: true
+    },
+    "vase": {
+        decor: true
+    },
+    "barrel": {
+        decor: true
+    },
 };
 
 function Textures() {
